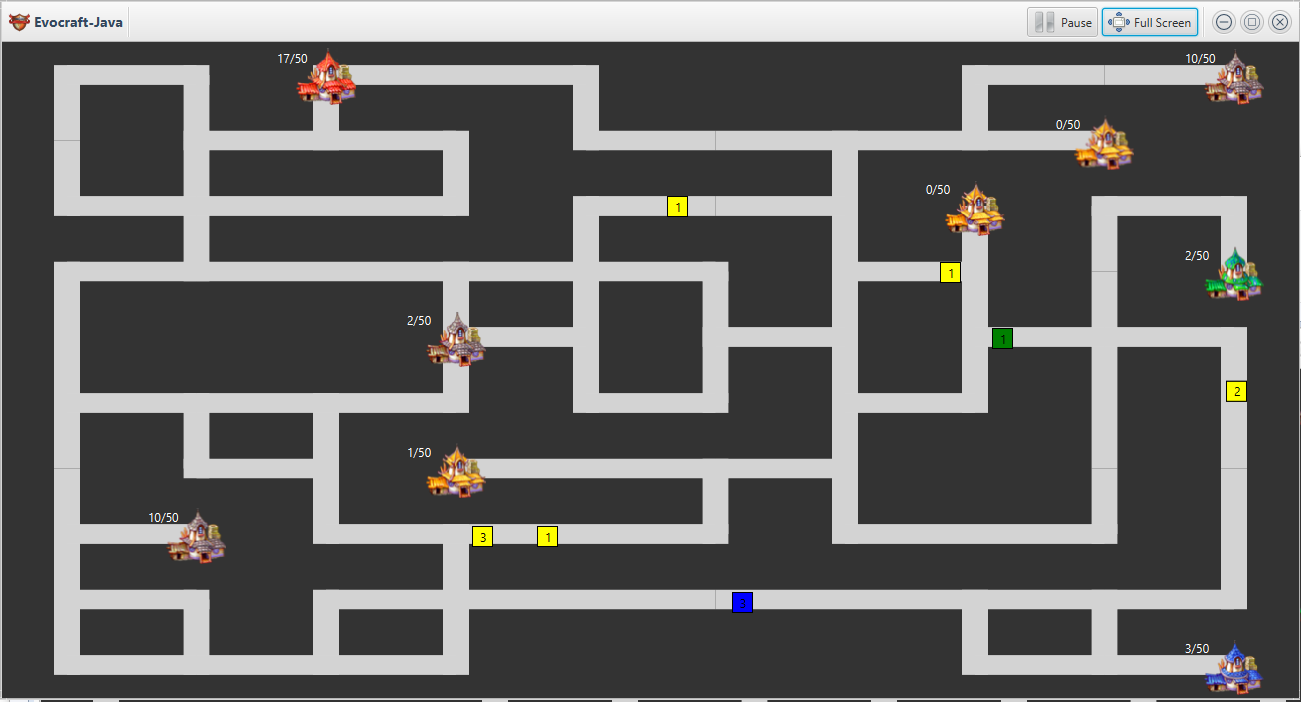
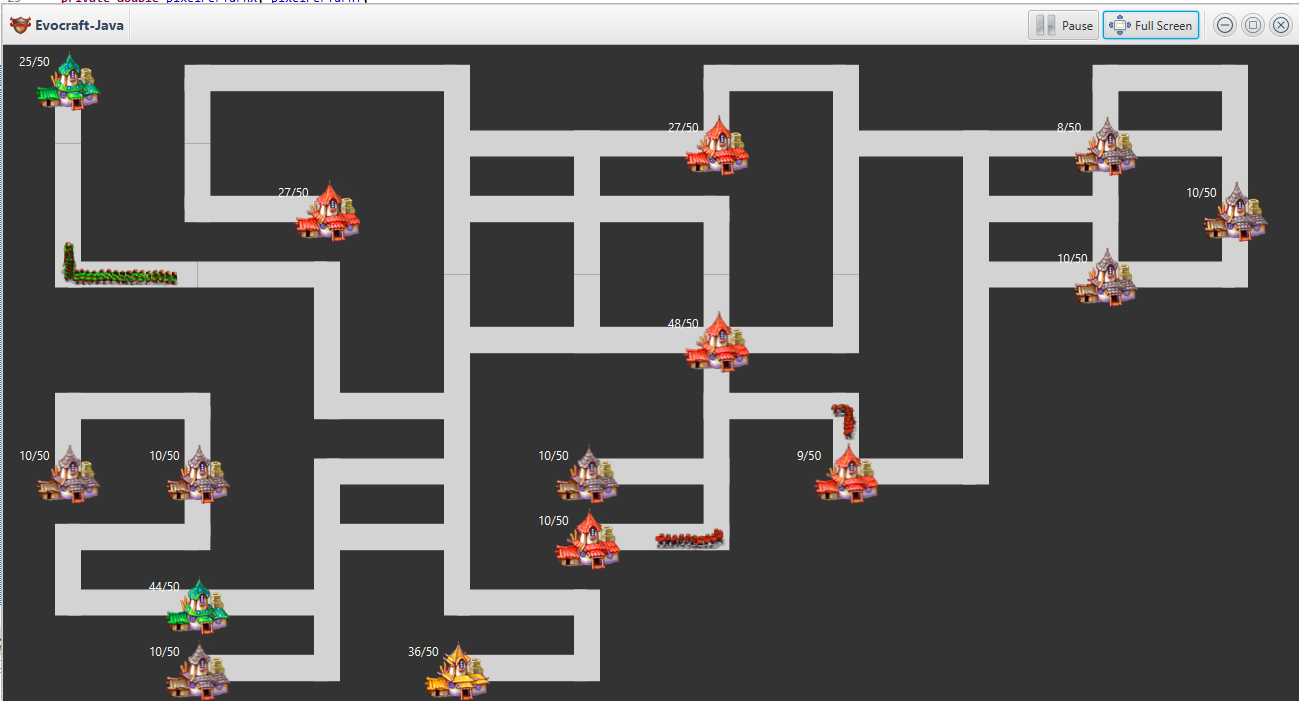
implement animation of units

Changed region(s): [[0.0, 0.0, 1.0, 1.0], [0.0, 0.6291, 0.0924, 0.7489]]

diff --git a/src/com/kilcote/evocraft/views/game/unit/JavaBasicUnitUI.java b/src/com/kilcote/evocraft/views/game/unit/JavaBasicUnitUI.java
@@ -8,9 +8,6 @@ import com.kilcote.evocraft.views.game._base.GameObjUI;
 
 import javafx.scene.control.Label;
 import javafx.scene.image.Image;
-import javafx.scene.image.ImageView;
-import javafx.scene.shape.Rectangle;
-import javafx.scene.shape.Shape;
 
 public class JavaBasicUnitUI extends GameObjUI<JavaBasicUnitModel>  { 
 	//---------------------------------------------- Constructor ----------------------------------------------
@@ -35,81 +32,50 @@ public class JavaBasicUnitUI extends GameObjUI<JavaBasicUnitModel>  {
 		if (shape == null) {
 			shape = new JavaBasicUnitPane();
 			parent.getChildren().add(shape);
+			shiftX = 0;
+			shiftY = 0;
+		} else if (shape.getWidth() != 0 || shape.getHeight() != 0) {
+			if (unitModel == null) {
+				Image image = ResourceUtils.getResourceImage(String.format("animation/unit%d_walk.png", getModel().playerId), shape.getWidth() * 32 * StandaloneSettings.roadWidth, shape.getHeight() * 4 * StandaloneSettings.roadHeight, true, true);
+				unitModel = new SpriteView(image, 4, 32);
+				shape.getChildren().add(unitModel);
+				
+				
+				
+				shape.setTranslateX(getModel().path.get(getModel().currPathIndex).getKey() * this.shape.getWidth());
+				shape.setTranslateY(getModel().path.get(getModel().currPathIndex).getValue() * this.shape.getHeight());
+			}
 			
-//         rectangle
-			RecalcGeometrySize();
-//			this.rectangle = new Rectangle(20, 20);
-//			this.rectangle.setFill(StandaloneSettings.TownFills.get(getModel().playerId - 1));
-//			this.rectangle.setStroke(StandaloneSettings.neutralTownStroke);
-//			SetElipseColor(rectangle, this.getModel().playerId);
-//			shape.getChildren().add(rectangle);
+			pixelPerTurnX = this.shape.getWidth() / getModel().tickPerTurn;
+			pixelPerTurnY = this.shape.getHeight() / getModel().tickPerTurn;
 			
-//			label
-//			text = new Label();
-//			text.setTextFill(StandaloneSettings.TownStrokes.get(getModel().playerId - 1));
-//			shape.getChildren().add(text);
+			SetShapeProperties();
 			
-//			animation
-			Image image = ResourceUtils.getResourceImage("animation/unit1_walk.png");
-			unitModel = new SpriteView(image, 4, 32);
-			shape.getChildren().add(unitModel);
+			if (getModel().currPathIndex < getModel().path.size() - 1 && (getModel().path.get(getModel().currPathIndex).getKey() > getModel().path.get(getModel().currPathIndex + 1).getKey())) {
+				shape.setTranslateX(getModel().path.get(getModel().currPathIndex).getKey() * this.shape.getWidth() - getModel().currTickOnCell * pixelPerTurnX + shiftX);
+			} else if (getModel().currPathIndex < getModel().path.size() - 1 && (getModel().path.get(getModel().currPathIndex).getKey() < getModel().path.get(getModel().currPathIndex + 1).getKey())) {
+				shape.setTranslateX(getModel().path.get(getModel().currPathIndex).getKey() * this.shape.getWidth() + getModel().currTickOnCell * pixelPerTurnX + shiftX);
+			} else if (getModel().currPathIndex < getModel().path.size()) {
+				shape.setTranslateX(getModel().path.get(getModel().currPathIndex).getKey() * this.shape.getWidth() + shiftX);
+			}
 			
-//			 shape
-			shape.setTranslateX(getModel().path.get(getModel().currPathIndex).getKey() * this.shape.getWidth());
-			shape.setTranslateY(getModel().path.get(getModel().currPathIndex).getValue() * this.shape.getHeight());
-		}
-//		text.setText(String.valueOf(this.getModel().warriorsCnt));
-		pixelPerTurnX = this.shape.getWidth() / getModel().tickPerTurn;
-		pixelPerTurnY = this.shape.getHeight() / getModel().tickPerTurn;
-		
-		SetShapeProperties();
-		if (getModel().currPathIndex < getModel().path.size() - 1 && (getModel().path.get(getModel().currPathIndex).getKey() > getModel().path.get(getModel().currPathIndex + 1).getKey())) {
-			shape.setTranslateX(getModel().path.get(getModel().currPathIndex).getKey() * this.shape.getWidth() - getModel().currTickOnCell * pixelPerTurnX + shiftX);
-		} else if (getModel().currPathIndex < getModel().path.size() - 1 && (getModel().path.get(getModel().currPathIndex).getKey() < getModel().path.get(getModel().currPathIndex + 1).getKey())) {
-			shape.setTranslateX(getModel().path.get(getModel().currPathIndex).getKey() * this.shape.getWidth() + getModel().currTickOnCell * pixelPerTurnX + shiftX);
-		} else if (getModel().currPathIndex < getModel().path.size()) {
-			shape.setTranslateX(getModel().path.get(getModel().currPathIndex).getKey() * this.shape.getWidth() + shiftX);
-		}
-
-		if (getModel().currPathIndex < getModel().path.size() - 1 && (getModel().path.get(getModel().currPathIndex).getValue() > getModel().path.get(getModel().currPathIndex + 1).getValue())) {
-			shape.setTranslateY(getModel().path.get(getModel().currPathIndex).getValue() * this.shape.getHeight() - getModel().currTickOnCell * pixelPerTurnY + shiftY);
-		} else if (getModel().currPathIndex < getModel().path.size() - 1 && (getModel().path.get(getModel().currPathIndex).getValue() < getModel().path.get(getModel().currPathIndex + 1).getValue())) {
-			shape.setTranslateY(getModel().path.get(getModel().currPathIndex).getValue() * this.shape.getHeight() + getModel().currTickOnCell * pixelPerTurnY + shiftY);
-		} else if (getModel().currPathIndex < getModel().path.size()) {
-			shape.setTranslateY(getModel().path.get(getModel().currPathIndex).getValue() * this.shape.getHeight() + shiftY);
+			if (getModel().currPathIndex < getModel().path.size() - 1 && (getModel().path.get(getModel().currPathIndex).getValue() > getModel().path.get(getModel().currPathIndex + 1).getValue())) {
+				shape.setTranslateY(getModel().path.get(getModel().currPathIndex).getValue() * this.shape.getHeight() - getModel().currTickOnCell * pixelPerTurnY + shiftY);
+			} else if (getModel().currPathIndex < getModel().path.size() - 1 && (getModel().path.get(getModel().currPathIndex).getValue() < getModel().path.get(getModel().currPathIndex + 1).getValue())) {
+				shape.setTranslateY(getModel().path.get(getModel().currPathIndex).getValue() * this.shape.getHeight() + getModel().currTickOnCell * pixelPerTurnY + shiftY);
+			} else if (getModel().currPathIndex < getModel().path.size()) {
+				shape.setTranslateY(getModel().path.get(getModel().currPathIndex).getValue() * this.shape.getHeight() + shiftY);
+			}
 		}
 	}
 	
 	public void SetShapeProperties() {
 		step++;
-		if (this.shape.getWidth() == 0 && this.shape.getHeight() == 0) {
-//			rectangle.setVisible(false);
-//			text.setVisible(false);
-			unitModel.setVisible(false);
-		} else {
-//			rectangle.setVisible(true);
-//			text.setVisible(true);
-			unitModel.setVisible(true);
-			
-//			rectangle.setLayoutX(this.shape.getWidth() / 2 - (rectangle.getBoundsInLocal().getWidth() / 2));
-//			rectangle.setLayoutY(this.shape.getHeight() / 2 - (rectangle.getBoundsInLocal().getHeight() / 2));
-//			
-//			text.setLayoutX(this.shape.getWidth() / 2 - (text.getWidth() / 2));
-//			text.setLayoutY(this.shape.getHeight() / 2 - (text.getHeight() / 2));
-			
-			Integer direction = getModel().GetDirection();
-			if (direction != null) {
-				unitModel.draw(direction, step);
-			}
-			unitModel.setLayoutX(this.shape.getWidth() / 2 - (unitModel.getBoundsInLocal().getWidth() / 2));
-			unitModel.setLayoutY(this.shape.getHeight() / 2 - (unitModel.getBoundsInLocal().getHeight() / 2));
+		Integer direction = getModel().GetDirection();
+		if (direction != null) {
+			unitModel.draw(direction, step);
 		}
-	}
-	
-	protected void RecalcGeometrySize() {
-		pixelPerTurnX = StandaloneSettings.oneCellSizeX / getModel().tickPerTurn;
-		pixelPerTurnY = StandaloneSettings.oneCellSizeY / getModel().tickPerTurn;
-		shiftX = 0;
-		shiftY = 0;
+		unitModel.setLayoutX(this.shape.getWidth() / 2 - (unitModel.getBoundsInLocal().getWidth() / 2));
+		unitModel.setLayoutY(this.shape.getHeight() / 2 - (unitModel.getBoundsInLocal().getHeight() / 2));
 	}
 }

diff --git a/src/com/kilcote/evocraft/views/game/city/JavaBasicCityUI.java b/src/com/kilcote/evocraft/views/game/city/JavaBasicCityUI.java
@@ -40,24 +40,6 @@ public class JavaBasicCityUI extends GameObjCellUI<JavaBasicCityModel> {
 	public void InvalidateDraw() {
 		if (shape == null) {
 			shape = new JavaBasicCityPane();
-			//Elipse
-			label = new Label();
-			label.setBackground(new Background(new BackgroundFill(Color.TRANSPARENT, new CornerRadii(label.getHeight() / 2), Insets.EMPTY)));
-			label.setTextFill(Color.web("#ffffff"));
-			switch (StandaloneSettings.style_Num) {
-			case 0:
-				cityModel = new Circle(this.shape.getWidth() / 2 , this.shape.getHeight() / 2, 40);
-				SetUiColor((Shape)cityModel, this.getModel().playerId);
-				break;
-			case 1:
-				cityModel = ResourceUtils.getResourceImageView("cities/city_p0_s4_l5.png", CITY_IMAGE_WIDTH, CITY_IMAGE_WIDTH, true, true);
-				SetCityImgProperties();
-				break;
-			}
-			ivSelection = ResourceUtils.getResourceImageView("war/our_selector.png", CITY_IMAGE_WIDTH, CITY_IMAGE_WIDTH, true, true);
-			shape.getChildren().add(cityModel);
-			shape.getChildren().add(label);
-			shape.getChildren().add(ivSelection);
 			
 			this.shape.setOnMouseClicked(new EventHandler<MouseEvent>() {
 				@Override
@@ -106,65 +88,90 @@ public class JavaBasicCityUI extends GameObjCellUI<JavaBasicCityModel> {
 					}
 				}
 			});
+		} else if (shape.getWidth() != 0 || shape.getHeight() != 0) {
+			//Label
+			SetLabelProperties();
+			
+			//Shape
+			switch (StandaloneSettings.style_Num) {
+			case 0:
+				if (cityModel == null) {
+					cityModel = new Circle(this.shape.getWidth() / 2 , this.shape.getHeight() / 2, 40);
+					SetUiColor((Shape)cityModel, this.getModel().playerId);
+					((Circle)this.cityModel).setCenterX(this.shape.getWidth() / 2);
+					((Circle)this.cityModel).setCenterY(this.shape.getHeight() / 2);
+					((Circle)this.cityModel).setRadius(this.shape.getHeight() / 2);
+					shape.getChildren().add(cityModel);
+				}
+				break;
+			case 1:
+				SetCityImgProperties();
+				break;
+			}
+			//Selection
+			SetSelectionImgProperties();
+		
+			if (this.cityModel != null && cityModel instanceof ImageView) {
+				SetCityImgProperties();
+			}
+		}
+	}
+	
+	public void SetLabelProperties() {
+		if (label == null) {
+			label = new Label();
+			label.setBackground(new Background(new BackgroundFill(Color.TRANSPARENT, new CornerRadii(label.getHeight() / 2), Insets.EMPTY)));
+			label.setTextFill(Color.web("#ffffff"));
+			shape.getChildren().add(label);
+			label.relocate(this.shape.getWidth() * 1 / 8, this.shape.getHeight() * 1 / 8);
 		}
 		label.setText(String.valueOf((int)Math.ceil(getModel().currWarriors)) + '/' + String.valueOf(getModel().maxWarriors));
-		label.relocate(this.shape.getWidth() * 1 / 8, this.shape.getHeight() * 1 / 8);
-		if (this.cityModel != null && cityModel instanceof Circle) {
-			((Circle)this.cityModel).setCenterX(this.shape.getWidth() / 2);
-			((Circle)this.cityModel).setCenterY(this.shape.getHeight() / 2);
-			((Circle)this.cityModel).setRadius(this.shape.getHeight() / 2);
-		}
-		if (this.cityModel != null && cityModel instanceof ImageView) {
-			SetCityImgProperties();
-		}
-		(this.ivSelection).setLayoutX(this.shape.getWidth() / 2);
-		(this.ivSelection).setLayoutX(this.shape.getHeight() / 2);
-		SetSelectionImgProperties();
 	}
 
-	public static double CITY_IMAGE_WIDTH = 60;
-	
 	public void SetCityImgProperties() {
-		ImageView image = (ImageView)cityModel;
-		if (shape.getWidth() == 0 || shape.getHeight()==0) {
-			image.setVisible(false);
-		} else {
-			image.setVisible(true);
-			if (getModel().playerId == 1) {
-				image.setImage(ResourceUtils.getResourceImage("cities/city_p1_s4_l5.png", shape.getWidth(), shape.getHeight(), true, true));
-			} else if (getModel().playerId == 2) {
-				image.setImage(ResourceUtils.getResourceImage("cities/city_p2_s4_l5.png", shape.getWidth(), shape.getHeight(), true, true));
-			} else if (getModel().playerId == 3) {
-				image.setImage(ResourceUtils.getResourceImage("cities/city_p3_s4_l5.png", shape.getWidth(), shape.getHeight(), true, true));
-			} else if (getModel().playerId == 4) {
-				image.setImage(ResourceUtils.getResourceImage("cities/city_p4_s4_l5.png", shape.getWidth(), shape.getHeight(), true, true));
+		switch (getModel().playerId) {
+		case 1: case 2: case 3: case 4:
+			if (cityModel == null) {
+				cityModel = ResourceUtils.getResourceImageView(String.format("cities/city_p%d_s4_l5.png", getModel().playerId), shape.getWidth(), shape.getHeight(), true, true);
+				shape.getChildren().add(cityModel);
 			} else {
-				image.setImage(ResourceUtils.getResourceImage("cities/city_p0_s4_l5.png", shape.getWidth(), shape.getHeight(), true, true));
+				((ImageView)cityModel).setImage(ResourceUtils.getResourceImage(String.format("cities/city_p%d_s4_l5.png", getModel().playerId), shape.getWidth(), shape.getHeight(), true, true));
 			}
-			image.setLayoutX(this.shape.getWidth() / 2 - (image.getImage().getWidth() / 2));
-			image.setLayoutY(this.shape.getHeight() / 2 - (image.getImage().getHeight() / 2));
+			break;
+		default:
+			if (cityModel == null) {
+				cityModel = ResourceUtils.getResourceImageView("cities/city_p0_s4_l5.png", shape.getWidth(), shape.getHeight(), true, true);
+				shape.getChildren().add(cityModel);
+			} else {
+				((ImageView)cityModel).setImage(ResourceUtils.getResourceImage("cities/city_p0_s4_l5.png", shape.getWidth(), shape.getHeight(), true, true));
+			}
 		}
+		((ImageView)cityModel).setLayoutX(this.shape.getWidth() / 2 - (((ImageView)cityModel).getImage().getWidth() / 2));
+		((ImageView)cityModel).setLayoutY(this.shape.getHeight() / 2 - (((ImageView)cityModel).getImage().getHeight() / 2));
 	}
 	
 	public void SetSelectionImgProperties() {
-		if (shape.getWidth() == 0 || shape.getHeight()==0) {
-			ivSelection.setVisible(false);
-		} else {
-			ivSelection.setVisible(true);
-			if (this.getModel().playerId == 1) {
+		if (this.getModel().playerId == 1) {
+			if (ivSelection == null) {
+				ivSelection = ResourceUtils.getResourceImageView("war/our_selector.png", shape.getWidth(), shape.getHeight(), true, true);
+				shape.getChildren().add(ivSelection);
+			} else {
 				ivSelection.setImage(ResourceUtils.getResourceImage("war/our_selector.png", shape.getWidth(), shape.getHeight(), true, true));
-				ivSelection.setLayoutX(this.shape.getWidth() / 2 - (ivSelection.getImage().getWidth() / 2));
-				ivSelection.setLayoutY(this.shape.getHeight() / 2 - (ivSelection.getImage().getHeight() / 2));				
-			} else {
-				ivSelection.setImage(ResourceUtils.getResourceImage("war/enemy_selector.png", CITY_IMAGE_WIDTH, CITY_IMAGE_WIDTH, true, true));
-				ivSelection.setLayoutX(this.shape.getWidth() / 2 - (ivSelection.getImage().getWidth()));
-				ivSelection.setLayoutY(this.shape.getHeight() / 2 - (ivSelection.getImage().getHeight()));
 			}
-			if (mSelect) {
-				ivSelection.setOpacity(1);
+		} else {
+			if (ivSelection == null) {
+				ivSelection = ResourceUtils.getResourceImageView("war/enemy_selector.png", shape.getWidth(), shape.getHeight(), true, true);
+				shape.getChildren().add(ivSelection);
 			} else {
-				ivSelection.setOpacity(0);
+				ivSelection.setImage(ResourceUtils.getResourceImage("war/enemy_selector.png", shape.getWidth(), shape.getHeight(), true, true));
 			}
+		}
+		(this.ivSelection).setLayoutX(this.shape.getWidth() / 2);
+		(this.ivSelection).setLayoutX(this.shape.getHeight() / 2);
+		if (mSelect) {
+			ivSelection.setOpacity(1);
+		} else {
+			ivSelection.setOpacity(0);
 		}
 	}
 

diff --git a/src/com/kilcote/evocraft/engine/city/JavaBasicCityModel.java b/src/com/kilcote/evocraft/engine/city/JavaBasicCityModel.java
@@ -1,6 +1,5 @@
 package com.kilcote.evocraft.engine.city;
 
-import com.kilcote.evocraft.engine.JavaGameEngine;
 import com.kilcote.evocraft.engine._base.IGameObjModel;
 import com.kilcote.evocraft.engine.map.JavaGameMap;
 import com.kilcote.evocraft.engine.unit.BasicUnitModel;
